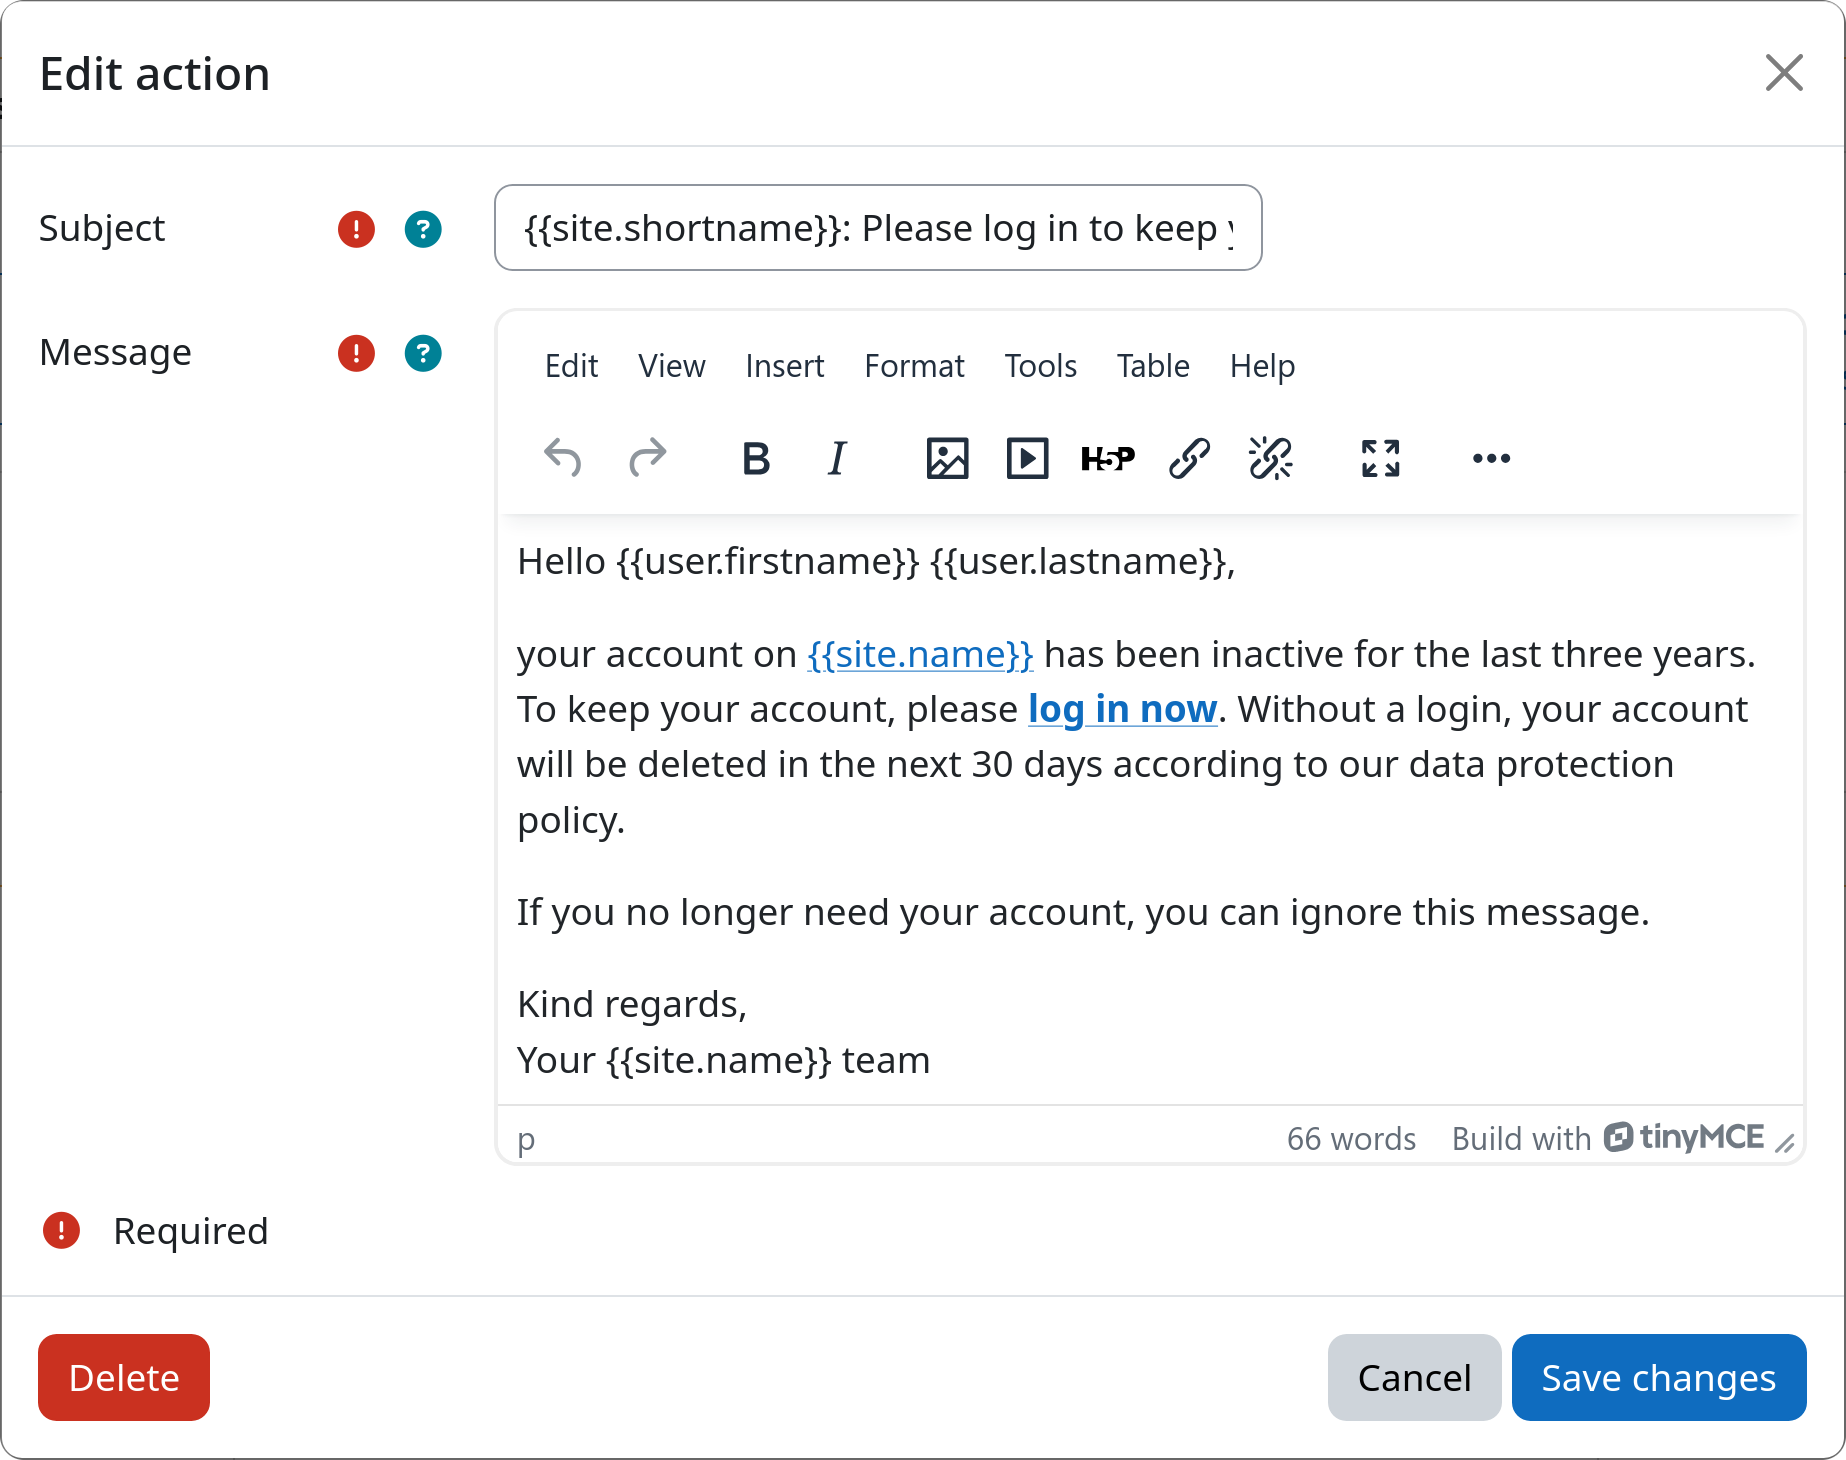
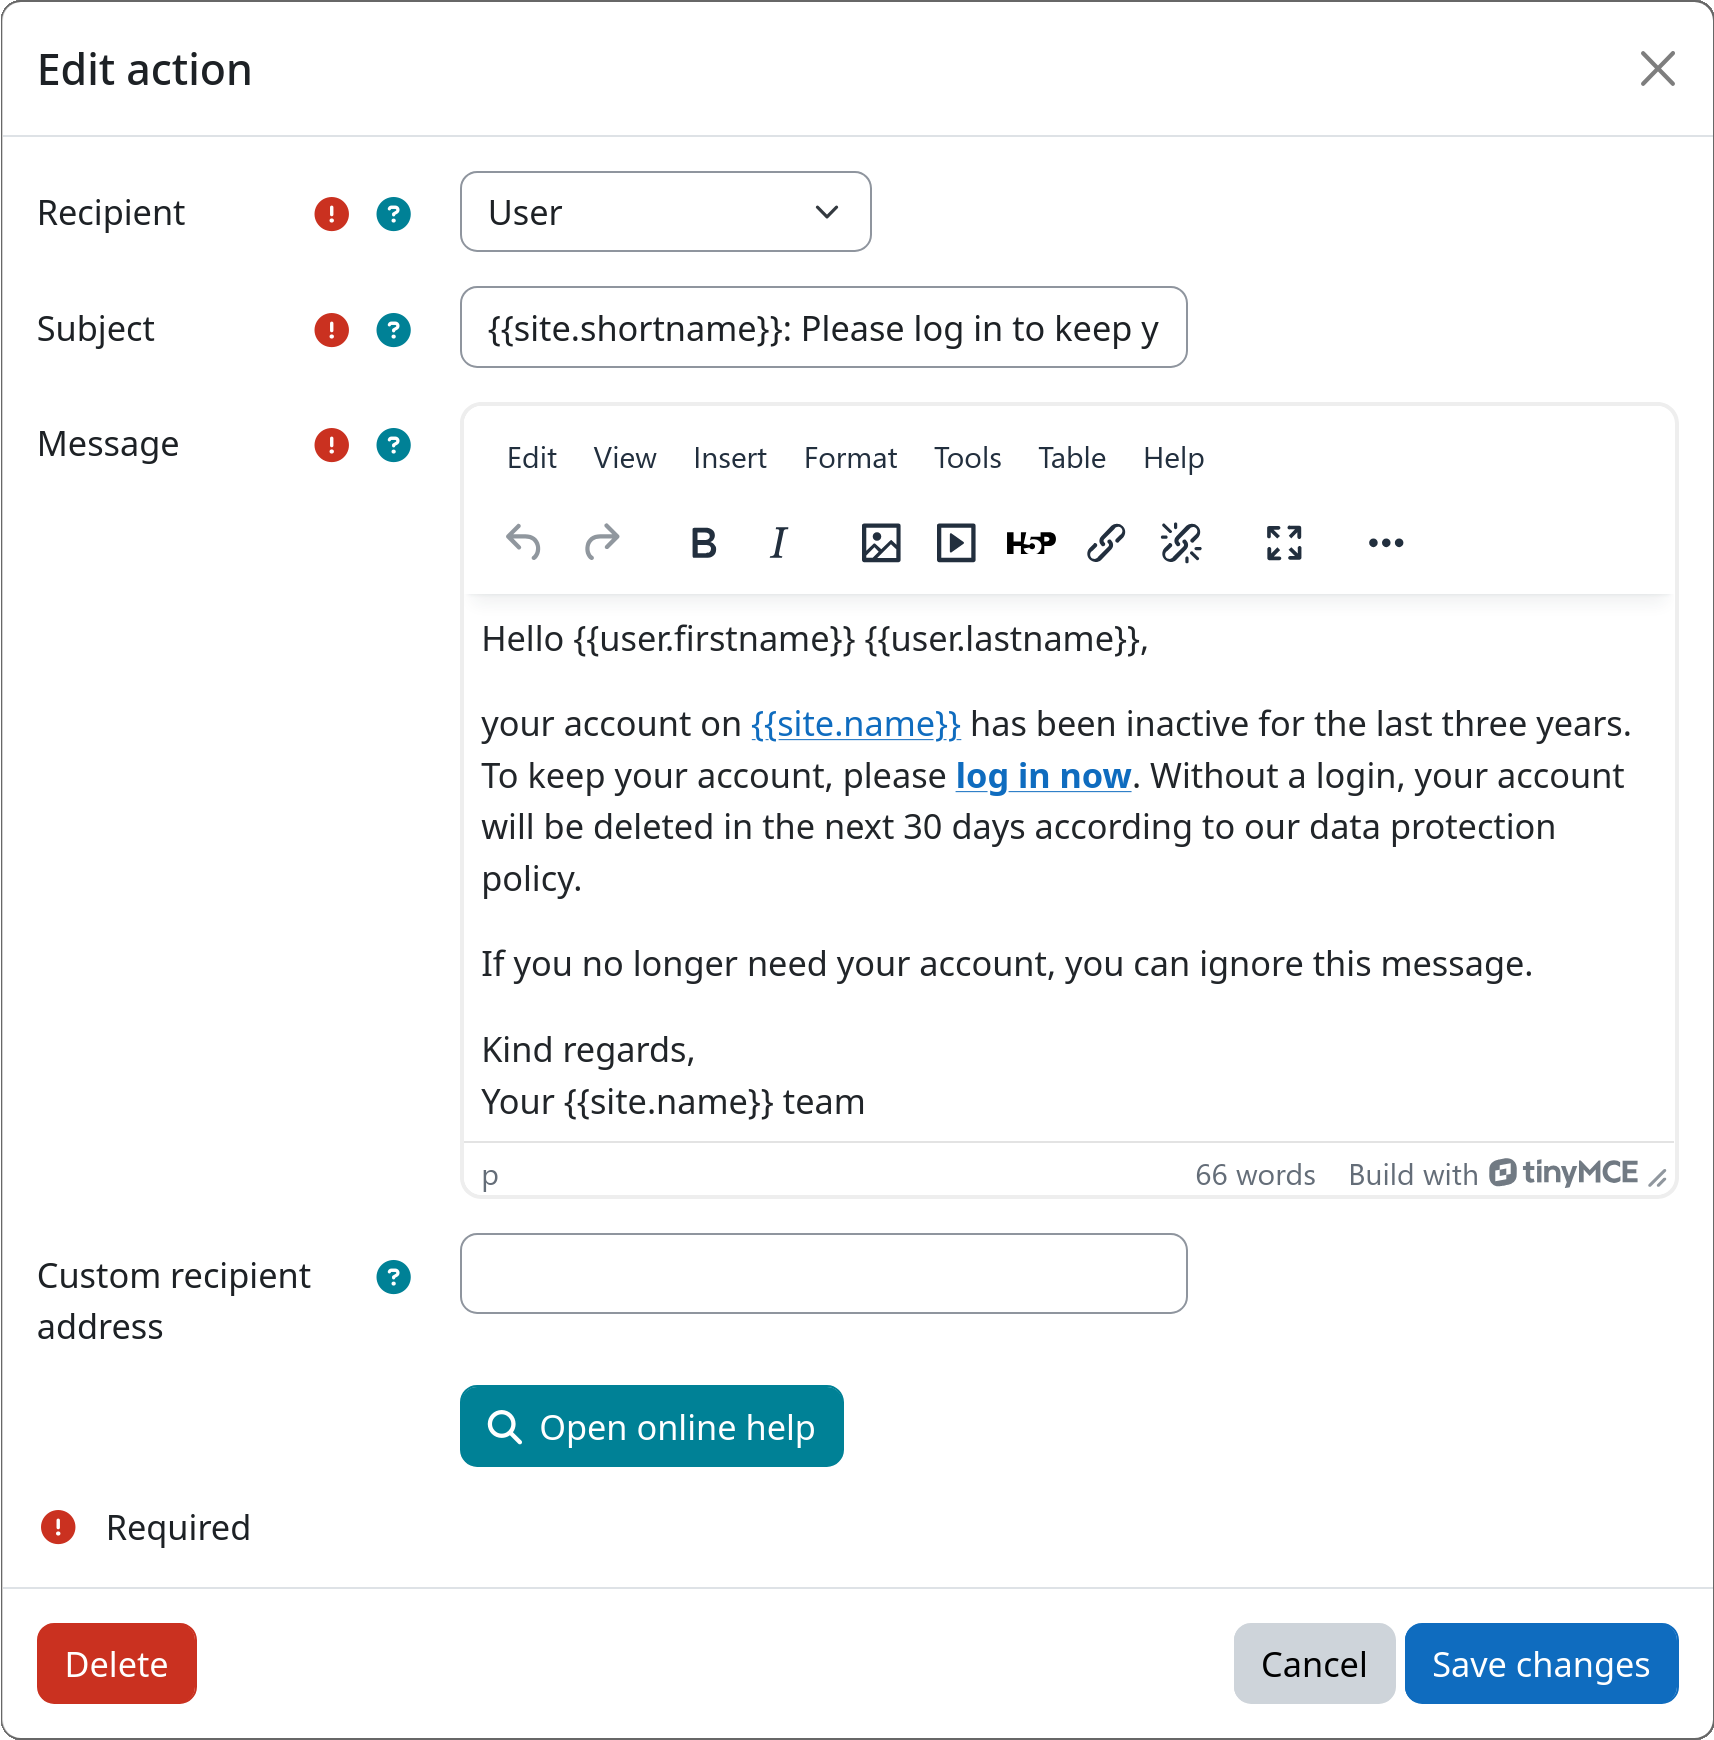
docs: Reflect latest mail action changes on mail action page and update screenshot

diff --git a/docs/actions/mail.md b/docs/actions/mail.md
@@ -1,8 +1,8 @@
 # Action: Send Mail
 
-The send mail action emails users when they enter a workflow step. Mail subject and body can be fully customized and
-allow the use of various dynamic variables. This action can be used for notifications, reminders, and warnings before
-subsequent lifecycle actions are executed.
+The send mail action emails users, site administrators, or a custom defined mail address, when they enter a workflow
+step. Mail subject and body can be fully customized and allow the use of various dynamic variables. This action can be
+used for notifications, reminders, and warnings before subsequent lifecycle actions are executed.
 
 <div class="subplugin-grid" markdown>
 [:fontawesome-solid-envelope:<br>Send Mail](#){.md-button .md-button-subplugin .md-button-subplugin-action .md-button-disabled}
@@ -49,14 +49,21 @@ The following variables are available:
 
 ## Settings
 
+!!! setting "Recipient"
+    Determines who receives the email. The following options are available:
+
+    - **User** – the email is delivered to the user referenced by the workflow process.
+    - **Site administrators** – the email is delivered to every Moodle site administrator.
+    - **Custom address** – the email is delivered to the address configured in the _"Custom recipient address"_ field.
+
 !!! setting "Subject"
     Defines the email subject line. You can use plain text and placeholders for dynamic variables (see above).
 
 !!! setting "Message"
     Defines the email body. You can use rich text (Moodle editor) and placeholders for dynamic variables (see above).
 
-If invalid placeholders for dynamic variables are used, an error message will be displayed that lists all the unresolved
-placeholders. You can then adjust your text accordingly before saving.
+!!! setting "Custom recipient address"
+    Only required when **Recipient** is set to _"Custom address"_. Accepts a single RFC-compliant email address.
 
 
 ## Example